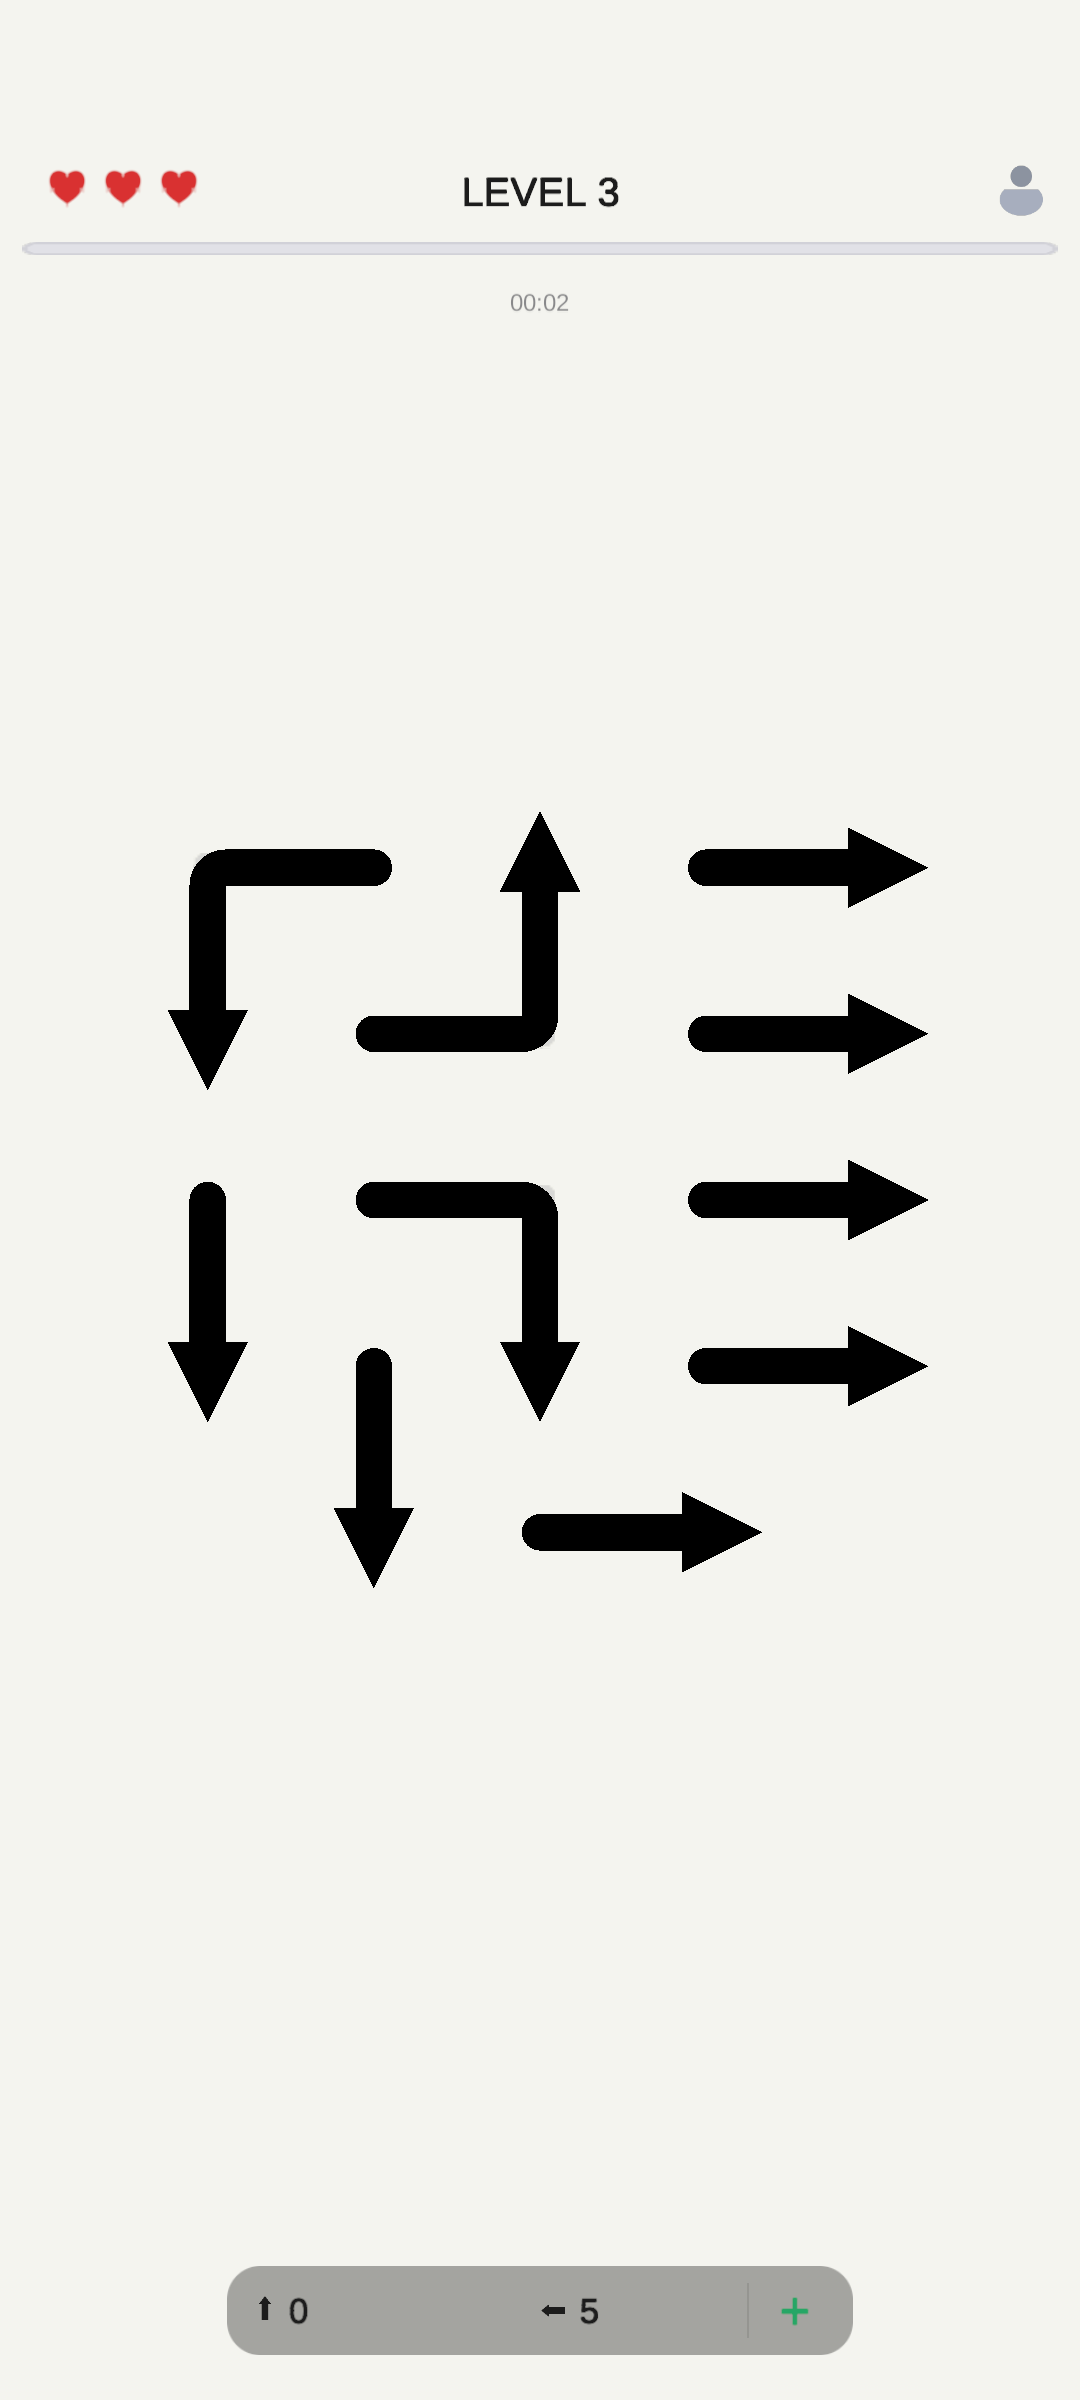
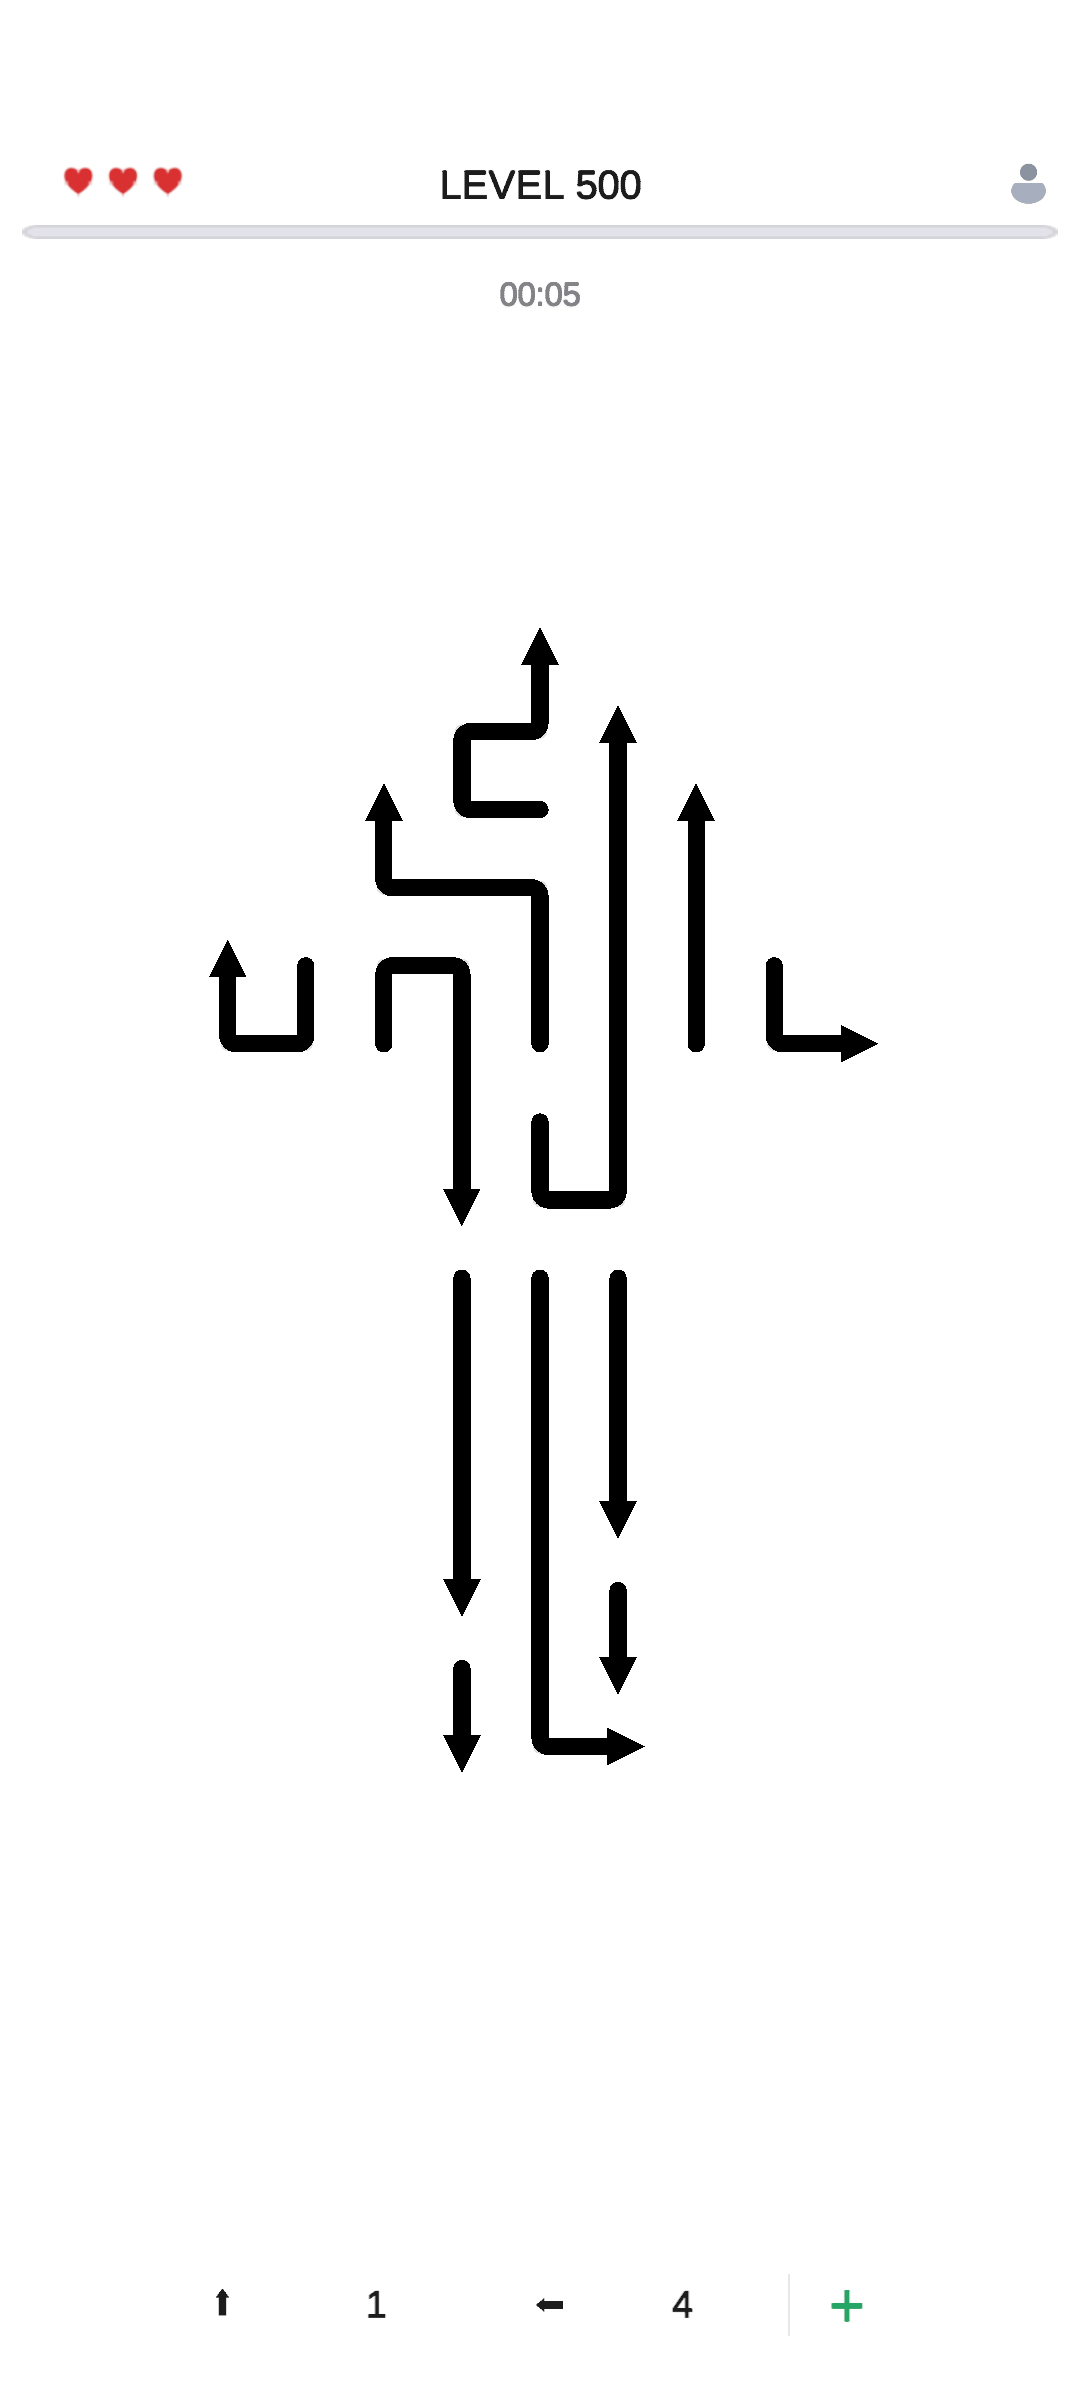
Add files via upload

diff --git a/terms-of-service-arrows.html b/terms-of-service-arrows.html
@@ -73,66 +73,69 @@
         </div>
 
         <div class="privacy-content">
-            <h2>1. ACCEPTANCE OF TERMS</h2>
-            <p>By downloading, installing, or using Arrow Escape Puzzle ("the Game"), you agree to be bound by these Terms of Service ("Terms"). If you do not agree, do not use the Game.</p>
+<h2>1. ACCEPTANCE OF TERMS</h2>
+<p>By downloading, installing, or using Arrow Escape Puzzle ("the Game"), you agree to be bound by these Terms of Service ("Terms"). If you do not agree, do not use the Game.</p>
 
-            <h2>2. PURCHASES & REFUNDS</h2>
-            <h3>2.1</h3>
-            <p>All in-app purchases, including virtual currency, items, and premium features, are FINAL, NON-REFUNDABLE, and NON-EXCHANGEABLE upon successful digital delivery, except as required by applicable law.</p>
-            
-            <h3>2.2</h3>
-            <p>Before completing any purchase, you must actively check an explicit confirmation box stating "I agree that all sales are final." This mandatory action constitutes your irrevocable acknowledgment and acceptance of the no-refund policy.</p>
-            
-            <h3>2.3</h3>
-            <p>Your failure to read these terms before confirming a purchase does not invalidate the transaction.</p>
+<h2>2. PURCHASES & REFUNDS</h2>
+<h3>2.1</h3>
+<p>All in-app purchases, including virtual currency, items, and premium features, are FINAL, NON-REFUNDABLE, and NON-EXCHANGEABLE upon successful digital delivery, except as required by applicable law.</p>
 
-            <h2>3. BIOMETRIC & CREDENTIAL AUTHENTICATION AS DIGITAL SIGNATURE</h2>
-            <h3>3.1</h3>
-            <p>Any purchase confirmed via Google Play's native authentication systems — including biometric verification (fingerprint, facial recognition), PIN entry, pattern lock, or Google Account password — constitutes a legally binding, authorized digital signature.</p>
-            
-            <h3>3.2</h3>
-            <p>You expressly acknowledge that biometric or credential verification represents a secure, intentional, and authenticated expression of your consent to purchase. Claims of "accidental purchase," "unauthorized use by a minor," "unintentional transaction," or "device theft" are expressly waived once biometric or credential authentication is completed.</p>
-            
-            <h3>3.3</h3>
-            <p>You assume full responsibility for the security of your device's authentication methods. The Developer bears no liability for purchases made through your device's authentication systems.</p>
+<h3>2.2</h3>
+<p>Before completing any purchase, you must actively check an explicit confirmation box stating "I agree that all sales are final." This mandatory action constitutes your irrevocable acknowledgment and acceptance of the no-refund policy.</p>
 
-            <h2>4. TELEMETRY LOGGING & CHARGEBACK DEFENSE</h2>
-            <h3>4.1</h3>
-            <p>The Game automatically records transaction telemetry data, including: device identifiers, IP addresses, timestamps of checkout checkbox validation, transaction success tokens, in-game item delivery confirmations, and item consumption logs.</p>
-            
-            <h3>4.2</h3>
-            <p>In the event of any payment dispute, fraud report, or chargeback, the Developer reserves the right to compile and share complete behavioral telemetry data packets with Google Play, merchant banks, card networks (Visa, Mastercard, American Express, Discover), and relevant financial institutions for the sole purpose of challenging and defeating fraudulent or unauthorized dispute claims.</p>
-            
-            <h3>4.3</h3>
-            <p>You consent to the release of this telemetry data to third-party payment infrastructure providers for transaction validation and dispute resolution.</p>
+<h3>2.3</h3>
+<p>Your failure to read these terms before confirming a purchase does not invalidate the transaction.</p>
 
-            <h2>5. NEGATIVE BALANCE ENFORCEMENT</h2>
-            <h3>5.1</h3>
-            <p>If a transaction is voided, reversed, or charged back after digital items have been granted, the Game will automatically deduct an equivalent value of virtual currency or items from your account.</p>
-            
-            <h3>5.2</h3>
-            <p>If the virtual currency or items have already been consumed, your account balance will reflect a negative deficit. Access to premium features and gameplay may be restricted until the deficit is fully settled.</p>
-            
-            <h3>5.3</h3>
-            <p>The Developer reserves the right to suspend or terminate accounts with unresolved negative balances.</p>
+<h3>2.4</h3>
+<p>Non-consumable purchases (such as Remove Ads) may be restored on the same Google account via the Restore Purchases option in the Settings menu. Consumable purchases (such as undos or skip levels) are not eligible for restoration once consumed.</p>
 
-            <h2>6. INTELLECTUAL PROPERTY</h2>
-            <p>All content, graphics, code, and assets within the Game are the exclusive property of the Developer and are protected by copyright and intellectual property laws. You may not copy, modify, distribute, or reverse-engineer any portion of the Game.</p>
+<h2>3. BIOMETRIC & CREDENTIAL AUTHENTICATION AS DIGITAL SIGNATURE</h2>
+<h3>3.1</h3>
+<p>Any purchase confirmed via Google Play's native authentication systems — including biometric verification (fingerprint, facial recognition), PIN entry, pattern lock, or Google Account password — constitutes a legally binding, authorized digital signature.</p>
 
-            <h2>7. USER CONDUCT</h2>
-            <p>You agree not to: (a) exploit bugs or glitches; (b) use cheats, automation software, or unauthorized third-party tools; (c) engage in harassment or abusive behavior; (d) attempt to disrupt the Game's services or servers.</p>
+<h3>3.2</h3>
+<p>You expressly acknowledge that biometric or credential verification represents a secure, intentional, and authenticated expression of your consent to purchase. Claims of "accidental purchase," "unauthorized use by a minor," "unintentional transaction," or "device theft" are expressly waived once biometric or credential authentication is completed.</p>
 
-            <h2>8. LIMITATION OF LIABILITY</h2>
-            <p>To the maximum extent permitted by law, the Developer shall not be liable for any indirect, incidental, special, consequential, or punitive damages arising from your use of the Game. The Game is provided "as is" without warranty of any kind.</p>
+<h3>3.3</h3>
+<p>You assume full responsibility for the security of your device's authentication methods. The Developer bears no liability for purchases made through your device's authentication systems.</p>
 
-            <h2>9. DISPUTE RESOLUTION</h2>
-            <p>Any dispute arising from these Terms shall be resolved through binding arbitration. You waive the right to participate in class actions. All disputes shall be governed by the laws of the jurisdiction of the Developer's principal place of business.</p>
+<h2>4. TELEMETRY LOGGING & CHARGEBACK DEFENSE</h2>
+<h3>4.1</h3>
+<p>The Game automatically records transaction telemetry data, including: device identifiers, IP addresses, timestamps of checkout checkbox validation, transaction success tokens, in-game item delivery confirmations, and item consumption logs.</p>
 
-            <h2>10. CHANGES TO TERMS</h2>
-            <p>The Developer reserves the right to modify these Terms at any time. Continued use of the Game after changes constitutes acceptance of the modified Terms. You are responsible for reviewing these Terms periodically.</p>
+<h3>4.2</h3>
+<p>In the event of any payment dispute, fraud report, or chargeback, the Developer reserves the right to compile and share complete behavioral telemetry data packets with Google Play, merchant banks, card networks (Visa, Mastercard, American Express, Discover), and relevant financial institutions for the sole purpose of challenging and defeating fraudulent or unauthorized dispute claims.</p>
 
-            <h2>11. CONTACT</h2>
-            <p>For questions regarding these Terms, contact us at: <a href="mailto:[email redacted]">[email redacted]</a></p>
+<h3>4.3</h3>
+<p>You consent to the release of this telemetry data to third-party payment infrastructure providers for transaction validation and dispute resolution.</p>
+
+<h2>5. NEGATIVE BALANCE ENFORCEMENT</h2>
+<h3>5.1</h3>
+<p>If a transaction is voided, reversed, or charged back after digital items have been granted, the Game will automatically deduct an equivalent value of virtual currency or items from your account.</p>
+
+<h3>5.2</h3>
+<p>If the virtual currency or items have already been consumed, your account balance will reflect a negative deficit. Access to premium features and gameplay may be restricted until the deficit is fully settled.</p>
+
+<h3>5.3</h3>
+<p>The Developer reserves the right to suspend or terminate accounts with unresolved negative balances.</p>
+
+<h2>6. INTELLECTUAL PROPERTY</h2>
+<p>All content, graphics, code, and assets within the Game are the exclusive property of the Developer and are protected by copyright and intellectual property laws. You may not copy, modify, distribute, or reverse-engineer any portion of the Game.</p>
+
+<h2>7. USER CONDUCT</h2>
+<p>You agree not to: (a) exploit bugs or glitches; (b) use cheats, automation software, or unauthorized third-party tools; (c) engage in harassment or abusive behavior; (d) attempt to disrupt the Game's services or servers.</p>
+
+<h2>8. LIMITATION OF LIABILITY</h2>
+<p>To the maximum extent permitted by law, the Developer shall not be liable for any indirect, incidental, special, consequential, or punitive damages arising from your use of the Game. The Game is provided "as is" without warranty of any kind.</p>
+
+<h2>9. DISPUTE RESOLUTION</h2>
+<p>Any dispute arising from these Terms shall be resolved through binding arbitration. You waive the right to participate in class actions. All disputes shall be governed by the laws of the jurisdiction of the Developer's principal place of business.</p>
+
+<h2>10. CHANGES TO TERMS</h2>
+<p>The Developer reserves the right to modify these Terms at any time. Continued use of the Game after changes constitutes acceptance of the modified Terms. You are responsible for reviewing these Terms periodically.</p>
+
+<h2>11. CONTACT</h2>
+<p>For questions regarding these Terms, contact the Developer through the contact information provided in the Game's store listing.</p>
         </div>
 
         <a href="index.html" class="back-link" style="margin-top: 40px;">← Back to Home</a>

diff --git a/styles.css b/styles.css
@@ -153,6 +153,14 @@ body {
     box-shadow: 0 10px 40px rgba(0, 0, 0, 0.15);
 }
 
+.game-icon-inline {
+    width: 80px;
+    height: 80px;
+    border-radius: 20px;
+    box-shadow: 0 4px 15px rgba(0, 0, 0, 0.1);
+    margin-bottom: 20px;
+}
+
 .phone-mockup {
     position: relative;
     display: inline-block;

diff --git a/index.html b/index.html
@@ -31,7 +31,6 @@
                 <!-- Game 1 - Sudoku -->
                 <div class="game-item">
                     <div class="game-images">
-                        <img src="sudoku-icon.png" alt="Sudoku Icon" class="game-icon">
                         <div class="phone-mockup">
                             <div class="phone-frame">
                                 <img src="sudoku-screenshot.png" alt="Sudoku Game" class="game-screenshot-phone">
@@ -39,6 +38,7 @@
                         </div>
                     </div>
                     <div class="game-info">
+                        <img src="sudoku-icon.png" alt="Sudoku Icon" class="game-icon-inline">
                         <h2 class="game-title">Sudoku - Classic Puzzle</h2>
                         <p class="game-description">
                             Train your brain with the ultimate Sudoku experience. Multiple difficulty levels, 
@@ -62,7 +62,6 @@
                 <!-- Game 2 - Arrow Escape Puzzle -->
                 <div class="game-item reverse">
                     <div class="game-images">
-                        <img src="arrows-icon.png" alt="Arrow Escape Puzzle Icon" class="game-icon">
                         <div class="phone-mockup">
                             <div class="phone-frame">
                                 <img src="arrows-screenshot.png" alt="Arrow Escape Puzzle Game" class="game-screenshot-phone">
@@ -70,6 +69,7 @@
                         </div>
                     </div>
                     <div class="game-info">
+                        <img src="arrows-icon.png" alt="Arrow Escape Puzzle Icon" class="game-icon-inline">
                         <h2 class="game-title">Arrow Escape Puzzle</h2>
                         <p class="game-description">
                             Navigate through intricate mazes of arrows in this minimalist logic puzzle game. Plan every move carefully 